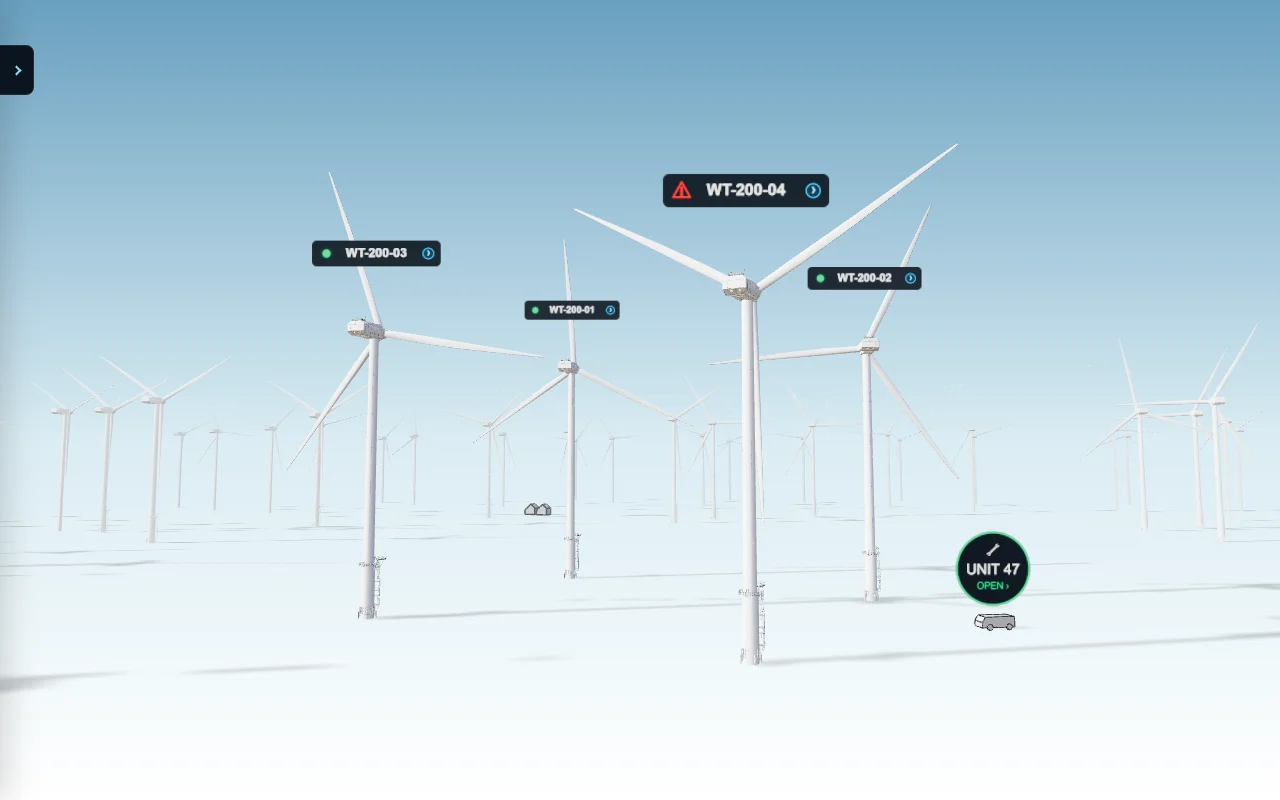
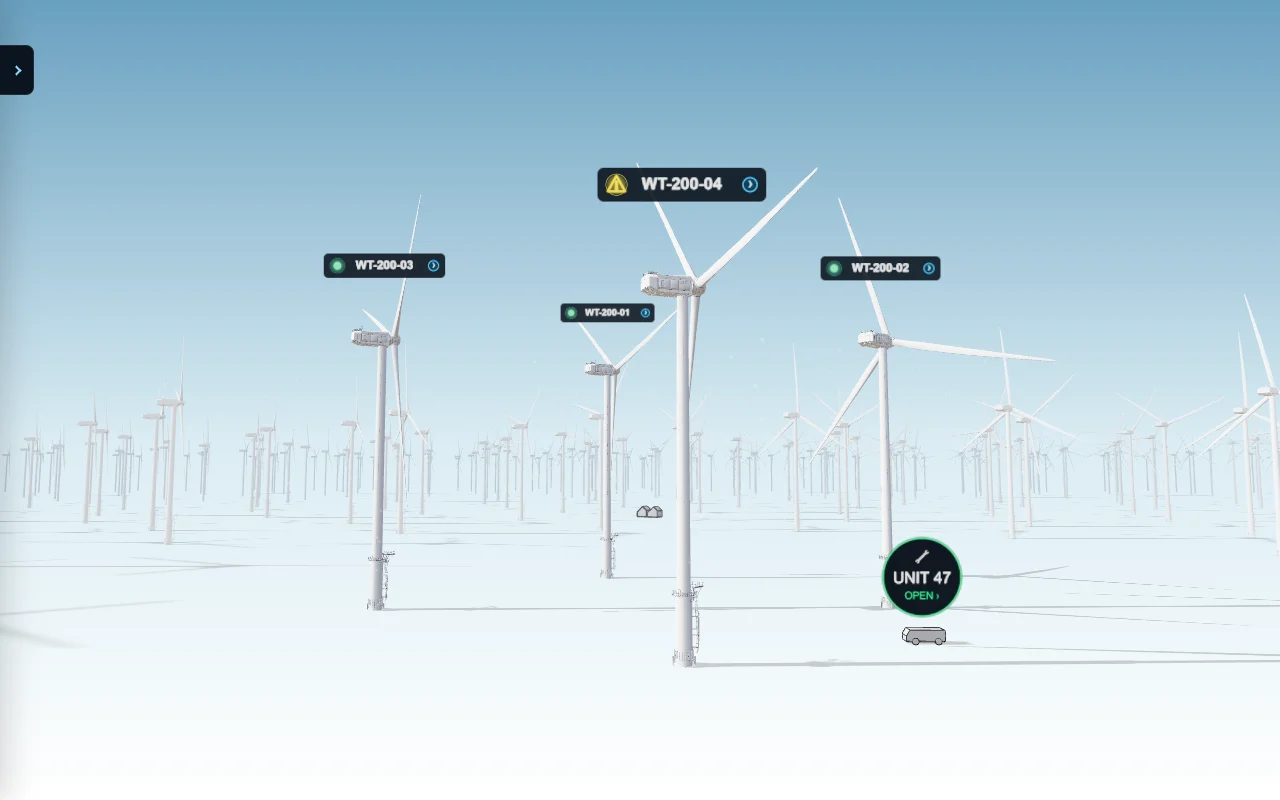
Refresh WindTwin case study with native farm, team workflow and current captures

diff --git a/README.md b/README.md
@@ -16,7 +16,7 @@ A browser-based industrial 3D experience connecting **asset monitoring, environm
 
 WindTwin explores how an industrial digital twin can become an understandable operational interface rather than a passive 3D scene. Visitors can select an asset, inspect its condition, follow an alert into a work order, and observe a maintenance vehicle carrying out the simulated service process.
 
-Four primary turbines form the interactive operational core. An expanded view presents a 100-turbine environment to demonstrate the farm's wider spatial context. The additional display turbines are not 96 extra managed maintenance assets.
+Four primary turbines form the interactive operational core. The expanded view now presents **750 turbines on desktop**, with a **100-turbine mobile configuration**. The additional turbines provide spatial context and visual scale; operational monitoring and maintenance remain focused on the four primary assets.
 
 ## Experience at a glance
 
@@ -25,11 +25,12 @@ Four primary turbines form the interactive operational core. An expanded view pr
 | Farm overview | Read combined simulated production, fleet status and current weather context. |
 | Asset inspection | Select a primary turbine in the scene or asset list and inspect its condition. |
 | Monitoring | Follow simulated power, rotor speed, temperature and vibration through rolling charts. |
-| Maintenance | Review alerts and tickets, change queue priorities, and follow service progress and completed reports. |
+| Maintenance | Review alerts and tickets, manage queue priority, and follow service progress, team conversations and completed reports. |
+| Team communication | Follow simulated radio updates, open the related task, and use optional supervisor replies. |
 | Service vehicle | Observe travel, servicing and return activity and inspect the current mission. |
 | Operations Center | Explore demonstration personnel, supplies, fleet information and employee profiles. |
 | Camera views | Open illustrated turbine camera panels for additional visual context. |
-| Expanded farm | Switch between the focused operational scene and the 100-turbine display environment. |
+| Expanded farm | Reveal a 750-turbine desktop environment or the lighter 100-turbine mobile view. |
 | Presentation | Save a branded scene image and enter fullscreen where supported. |
 
 ## 1. Understand the farm at a glance
@@ -38,7 +39,7 @@ The overview brings weather, production and fleet status into a compact dashboar
 
 ## 2. Inspect an asset and its condition
 
-Selecting a primary turbine connects its 3D identity to condition information, operating values and monitoring charts. Visitors can compare power and rotor speed with temperature and vibration, then expand a chart for a closer view.
+Selecting a primary turbine connects its 3D identity to condition information, operating values and monitoring charts. Visitors can compare power and rotor speed with temperature and vibration, then expand a chart for a closer view. Visual condition feedback also connects the asset in the scene to its simulated health and fault state.
 
 ![Primary turbine selected with monitoring charts and condition panels](windtwin-monitoring-2026.webp)
 
@@ -50,13 +51,19 @@ Simulated faults connect asset condition to alerts, work orders and service acti
 
 A service vehicle travels to the assigned turbine and performs the simulated repair. Completed work appears in maintenance history, linking the original issue to the resulting report and recovered asset state.
 
-This makes the relationship between **condition, decision, dispatch and outcome** visible within the same experience. Work orders and reports belong to the browser session; they are not records from a production maintenance backend.
+Simulated team radio adds context as the job moves from dispatch through travel, arrival, servicing and completion. A radio message opens the corresponding ticket, where visitors can read the task conversation and final maintenance report. Optional preset supervisor replies receive a response appropriate to the task stage without changing the service workflow.
+
+![Current maintenance task with team conversation, mission context and optional supervisor replies](windtwin-maintenance-2026.webp)
+
+This makes the relationship between **condition, decision, dispatch and outcome** visible within the same experience. Conversations are scripted simulation, not messages from real staff or an AI chat service. Work orders, conversations and reports belong to the browser session; they are not records from a production maintenance backend.
 
 ## 4. Explore the wider environment
 
-Full Farm expands the display to 100 turbines while retaining the four primary operational assets. It adds a sense of industrial scale and lets visitors navigate the broader farm context.
+Full Farm expands the desktop scene to **750 turbines** while retaining the four primary operational assets. Wider spacing and moving shadows give the larger environment a clearer sense of scale. Mobile uses a lighter **100-turbine** configuration.
 
-![Expanded WindTwin environment displaying the 100-turbine farm](windtwin-full-farm-2026.webp)
+The updated presentation balances the focused operational view with a much larger surrounding farm. The desktop setting is based on interactive acceptance on the reference PC, rather than a claim that every device will deliver the same frame rate.
+
+![Current expanded WindTwin desktop environment displaying the 750-turbine farm](windtwin-full-farm-2026.webp)
 
 ## 5. Keep operations and context together
 
@@ -68,27 +75,25 @@ Personnel, inventory, camera images and several detail indicators are demonstrat
 
 The responsive interface supports desktop and mobile layouts with touch navigation. Asset selection on mobile moves visitors from the list into monitoring, keeping the focused task visible.
 
-The latest viewer tools group branded image capture and supported fullscreen viewing in Overview. Export captures the 3D scene with Nourtin branding, rather than the HTML dashboard.
+Branded image capture is available in Overview. Mobile provides a floating fullscreen control that stays accessible outside the drawer and attempts landscape orientation where supported. Viewing/privacy guidance that remains until acknowledged and a dismissible drag hint help visitors enter the experience. The compact mobile panels keep asset information and task conversations readable in a smaller viewport.
+
+Export captures the 3D scene with Nourtin branding, rather than the HTML dashboard. Fullscreen and orientation behavior depend on the browser and device.
 
 <p align="center">
-  <img src="windtwin-mobile-overview-2026.webp" width="300" alt="Current WindTwin Overview panel with camera and fullscreen icons in an emulated portrait mobile viewport">
+  <img src="windtwin-mobile-overview-2026.webp" width="300" alt="Updated WindTwin mobile overview with compact panels, image capture and an accessible floating fullscreen control">
 </p>
 
 *These captures come from the published application on 25 October 2026. The portrait image uses browser viewport emulation; it is not physical-phone performance validation.*
 
 ## Performance and experience quality
 
-The latest update focuses on the first useful scene, responsive navigation and reliable access to the operational tools. Loading failures provide a retry path, and an interrupted weather service preserves a labelled simulated experience.
+The latest release improves access to the focused scene and prepares the wider experience without making every optional feature part of the initial loading screen. Large-farm rendering and shadow movement have been refined, including a softer shadow presentation for the primary assets.
 
-The maintained graphics baseline is **Three.js 0.186.1**. The update preserves the established material and lighting presentation while modernizing application libraries and improving startup and runtime behavior.
+The maintained graphics baseline is **Three.js 0.186.1**. Library modernization is accompanied by improvements to loading, rendering, responsive interaction and recovery behavior.
 
-One recorded local production-build comparison observed the useful-scene proxy at **3.392 seconds before the update and 2.761 seconds after it** on desktop. The observer measured overlay removal followed by two browser frame opportunities, with START clicked automatically. This differs from manual visitor waiting time and from the collector's own visibility method.
+The published desktop experience now includes the accepted **750-turbine** configuration. This is a verified feature of the live application, not a universal 60 FPS or sub-second startup promise. Loading time and smoothness vary with hardware, browser, connection and cache state. Mobile retains 100 turbines; desktop browser emulation does not certify physical-phone performance.
 
-Test conditions: Windows, Intel Core i7-5930K, NVIDIA GTX 1060 3GB, headless Chrome 155, 1280 × 800 viewport at DPR 1, local production preview, browser cache disabled, imposed 40 ms latency and 10 Mbit/s download throughput. Driver/shader/OS caches were not reset. This is a single recorded comparison, not a statistically established speedup or a cross-device guarantee.
-
-A separate reference-PC capacity trial completed a **15-minute fixed-view run with 300 turbines**, reporting **55.66 mean FPS, a 21 ms p95 frame interval and a 95.7 ms maximum interval**. Conditions: the same i7-5930K / GTX 1060 3GB desktop, Windows Chrome 155, HIGH quality, 1280 × 800 at DPR 1, local developer test environment, browser cache disabled, no artificial network throttling, and weather/analytics requests blocked. These are render-loop observations from one device and view; temperature, power, VRAM bytes and sustained manual interaction were not measured. The published experience retains its **100-turbine** default.
-
-Verification also covered startup, turbine selection, chart expansion, full-farm show/hide, image export, fullscreen and loading-failure recovery on desktop and an emulated mobile viewport. A graphics-unavailable browser now receives a clear explanation and retry action. Physical phones and exhaustive maintenance/touch interactions remain separate validation work.
+Release checks covered startup, exact desktop/mobile farm counts, turbine selection, chart expansion, farm show/hide, image export, fullscreen, tab visibility recovery and loading-failure retry. A graphics-unavailable browser receives an explanation and retry action. These checks support the demonstrated interactions; they do not claim exhaustive validation of every device or maintenance scenario.
 
 ## My contribution
 
@@ -96,8 +101,11 @@ Verification also covered startup, turbine selection, chart expansion, full-farm
 - Designed the monitoring dashboard, responsive panels and asset-selection experience.
 - Built the demonstration fault, work-order, vehicle and maintenance-report workflows.
 - Integrated live weather context and distinguished it from simulated operational data.
-- Developed the expanded 100-turbine presentation and refined startup and runtime performance.
-- Added branded scene capture, supported fullscreen viewing and consistent performance measurement.
+- Expanded the desktop environment to 750 turbines while retaining a lighter mobile configuration.
+- Refined loading, rendering and moving-shadow presentation for the larger scene.
+- Added task-linked radio conversations, optional supervisor replies and visual asset-condition feedback.
+- Added branded scene capture, mobile fullscreen/orientation handling and clearer onboarding guidance.
+- Refined compact mobile monitoring, vehicle and maintenance views.
 - Modernized the graphics/application libraries and expanded engineering documentation and verification.
 
 The project demonstrates **real-time 3D presentation, frontend engineering and connected industrial interaction** in a browser experience.
@@ -106,14 +114,14 @@ The project demonstrates **real-time 3D presentation, frontend engineering and c
 
 1. Open the overview and compare weather context with fleet status.
 2. Select a primary turbine and inspect its monitoring charts.
-3. Open Maintenance and follow a simulated alert, work order and service mission.
+3. Open Maintenance and follow a simulated alert, work order, team conversation and service mission.
 4. Enable Full Farm to explore the wider environment.
 
 [**Open WindTwin →**](https://windtwin.nourtin.com/)
 
 ---
 
-**About this repository:** A public portfolio presentation containing descriptions and application screenshots. Application source, optimization algorithms, private operational documentation, database configuration and credentials are excluded. Screenshots were captured from the updated application on 25 October 2026 and resized/compressed for presentation. The update is published in the live demo; fullscreen remains dependent on browser support.
+**About this repository:** A public portfolio presentation containing descriptions and application screenshots. Application source, optimization algorithms, private operational documentation, database configuration and credentials are excluded. Screenshots were refreshed from the published 750-desktop / 100-mobile release on 25 October 2026 and resized/compressed for presentation. The update is published in the live demo; fullscreen remains dependent on browser support.
 
 Independent prototype by [Nour Altinawi — Nourtin](https://nourtin.com/). WindTwin is not connected to a physical wind farm and is not intended for operational decisions.
 
